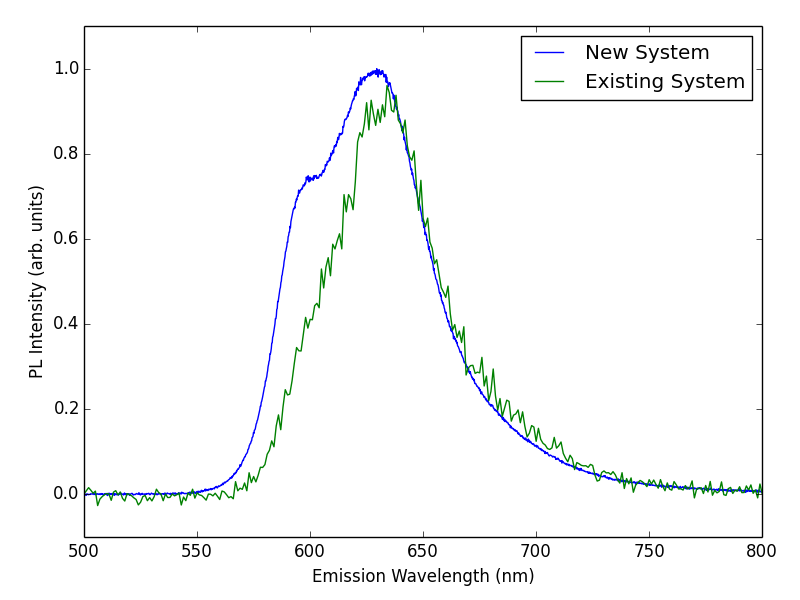
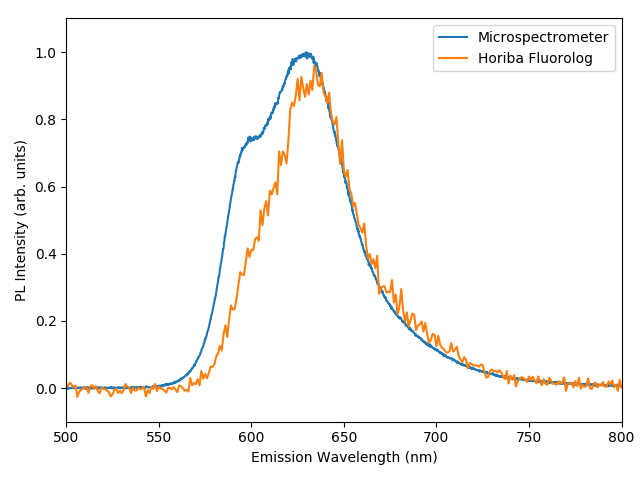
Change line names in spectral plots

diff --git a/data/emission-plots/python/qd-plots.py b/data/emission-plots/python/qd-plots.py
@@ -6,7 +6,7 @@ import os.path as path
 import fluorimeter as fl
 import oceanoptics as oo
 import spectra as sp
-import scipy.signal as sig
+# import scipy.signal as sig
 
 ## OCEAN OPTICS DATA ##
 
@@ -104,11 +104,11 @@ plt.xlabel("Emission Wavelength (nm)")
 plt.ylabel("PL Intensity (arb. units)")
 
 # Ocean optics
-plt.plot(oceanwavelength, oceanbyroi_cnorm[0], label="New System") # ROI A
+plt.plot(oceanwavelength, oceanbyroi_cnorm[0], '-', label="Microspectrometer") # ROI A
 # plt.plot(oceanwavelength, oceanbyroi_cnorm[1], label="New System (ROI B)")
 
 # Fluorolog
-plt.plot(flwavelength, fldata_cnorm[flindex], '-', label="Existing System") # ROI A
+plt.plot(flwavelength, fldata_cnorm[flindex], '-', label="Horiba Fluorolog") # ROI A
 
 # Other plot features
 plt.legend(loc='best')

diff --git a/data/emission-plots/python/tesf-plots.py b/data/emission-plots/python/tesf-plots.py
@@ -99,10 +99,10 @@ plt.ylabel("PL Intensity (arb. units)")
 
 # Ocean optics
 # plt.plot(oceanwavelength, oceanbyroi_cnorm[0], label="New Setup (ROI A)")
-plt.plot(oceanwavelength, oceanbyroi_cnorm[1], label="New System") # ROI B
+plt.plot(oceanwavelength, oceanbyroi_cnorm[1], label="Microspectrometer") # ROI B
 
 # Fluorolog
-plt.plot(flwavelength, fldata_cnorm[flindex], '-', label="Existing System") # Some other ROI
+plt.plot(flwavelength, fldata_cnorm[flindex], '-', label="Horiba Fluorolog") # Some other ROI
 
 # Other plot features
 plt.legend(loc='best')
